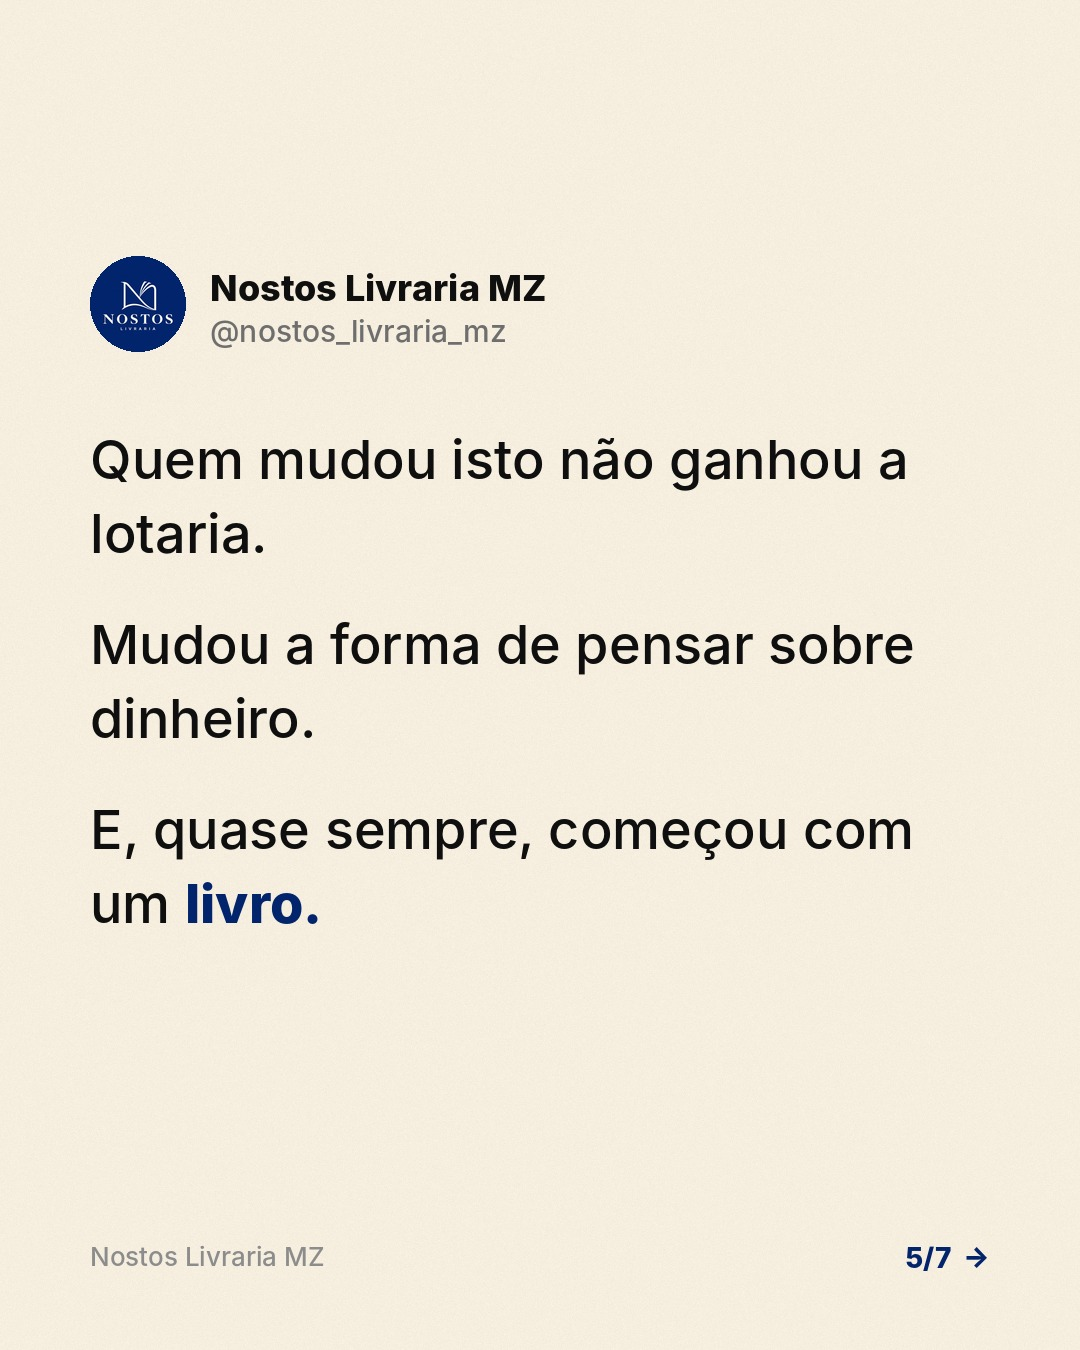
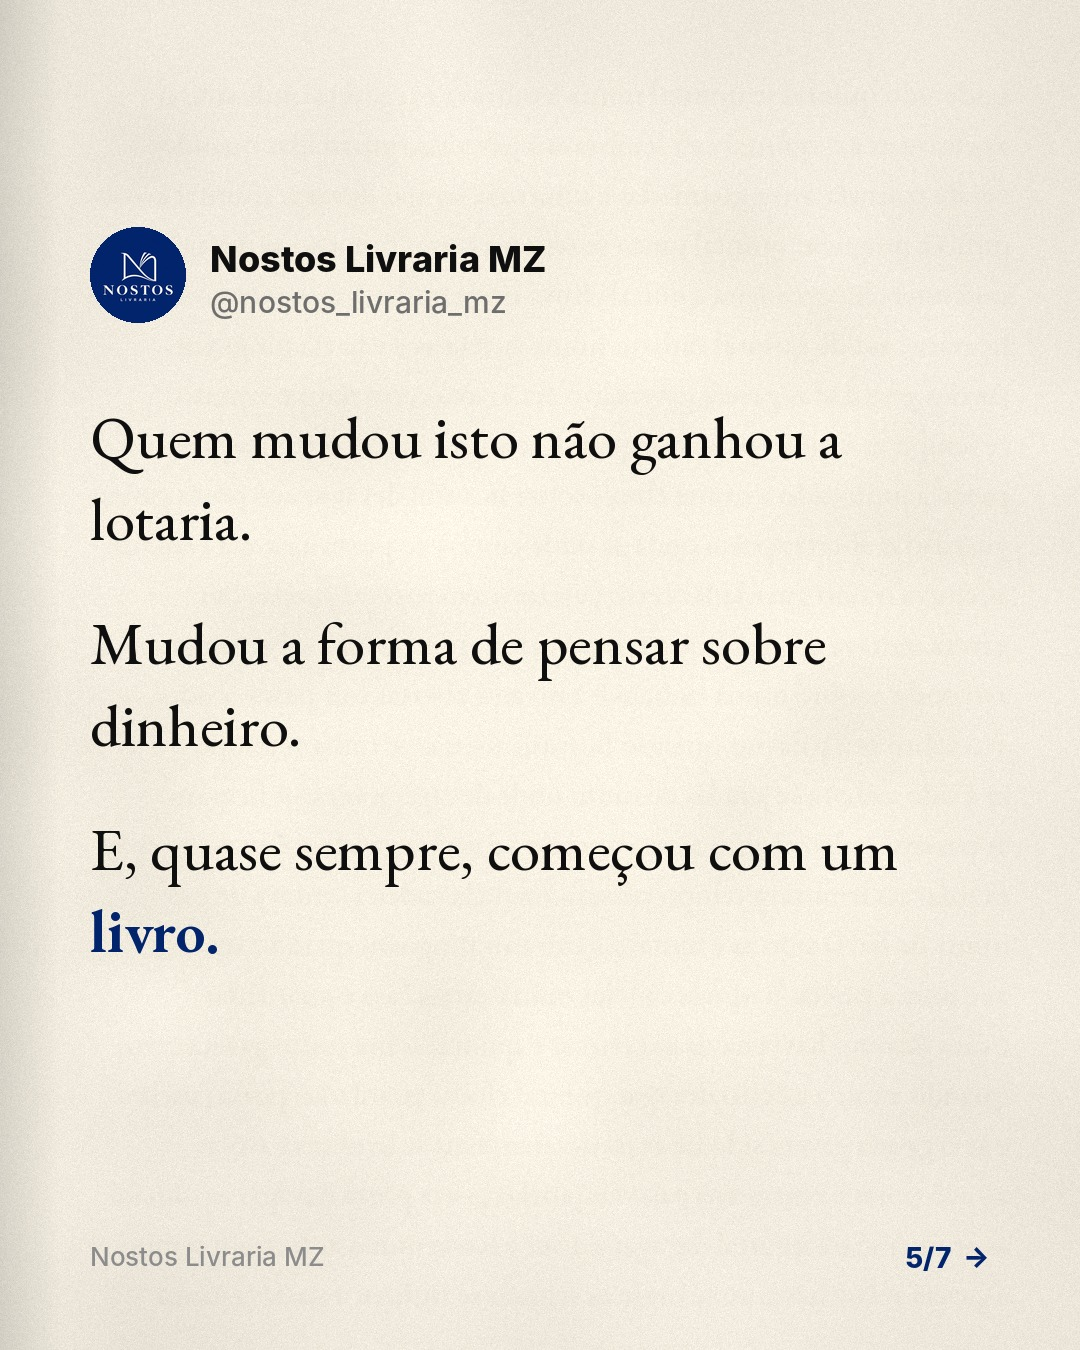
Estilo nota com letra de livro sobre papel claro; amostra com Dinheiro é Emocional
Claude-Session: https://claude.ai/code/session_01158HqZBK5N8s9ruNUS9Jgj

diff --git a/engine/render.py b/engine/render.py
@@ -29,6 +29,7 @@ RED = (2, 36, 108)  # azul Nostos (cor do logo); nome mantido por compatibilidad
 NAVY = RED
 LOGO_CREME = (251, 248, 240)
 BEIGE = (246, 239, 224)  # creme claro de papel de livro (#F6EFE0), fundo padrão do estilo nota
+PAPEL_CLARO = (250, 244, 231)  # papel de livro claro (textura igual às páginas, mais clara)
 GREY = (110, 104, 96)
 SIZES = {"feed": (1080, 1350), "story": (1080, 1920)}
 WA = "WhatsApp 87 943 1217"
@@ -72,7 +73,7 @@ FILLER = ("o tempo passava devagar naquela casa e ninguém se lembrava ao certo 
           "se sentava a ver a chuva cair sobre o quintal e as palavras ficavam no ar").split()
 
 
-def paper(W, H, seed):
+def paper(W, H, seed, base=None, through=0.055, vignette=0.16):
     r = np.random.default_rng(seed)
     small = r.normal(0, 1, (14, 11))
     m = np.array(Image.fromarray(((small - small.min()) / np.ptp(small) * 255).astype(np.uint8))
@@ -80,10 +81,10 @@ def paper(W, H, seed):
     fine = r.normal(0, 1, (H, W))
     img = np.zeros((H, W, 3))
     for c in range(3):
-        img[..., c] = CREAM[c] + m * 10 + fine * 4.2
+        img[..., c] = (base or CREAM)[c] + m * 10 + fine * 4.2
     yy, xx = np.mgrid[0:H, 0:W]
     dd = np.sqrt(((xx - W / 2) / (W * 0.62)) ** 2 + ((yy - H / 2) / (H * 0.62)) ** 2)
-    img *= (1 - 0.16 * np.clip(dd, 0, 1.4) ** 2)[..., None]
+    img *= (1 - vignette * np.clip(dd, 0, 1.4) ** 2)[..., None]
     img[:, :60] *= np.linspace(0.9, 1, 60)[None, :, None]
     # texto do verso a transparecer
     rr = random.Random(seed)
@@ -103,7 +104,7 @@ def paper(W, H, seed):
         d.text((70, y), " ".join(line), font=f, fill=255)
         y += 50
     layer = layer.transpose(Image.FLIP_LEFT_RIGHT).filter(ImageFilter.GaussianBlur(1.6))
-    a = np.array(layer, float) / 255 * 0.055
+    a = np.array(layer, float) / 255 * through
     img = img * (1 - a[..., None]) + np.array([90, 80, 66]) * a[..., None]
     return Image.fromarray(np.clip(img, 0, 255).astype(np.uint8))
 
@@ -379,10 +380,14 @@ def nota_draw(W, H, p, n, total):
     d.text((tx, y0 + 56), HANDLE, font=sans(30), fill=(110, 110, 110))
     y = y0 + 170
     if p.get("kicker"):
-        d.text((M, y), p["kicker"], font=sans(30, True), fill=RED)
+        d.text((M, y), p["kicker"], font=serif(38, 600, it=True), fill=RED)
         y += 60
     size = p.get("size", 54)
-    f, fb = sans(size), sans(size, True)
+    if p.get("font", "serif") == "serif":
+        size = int(size * 1.12)
+        f, fb = serif(size, 450), serif(size, 650)
+    else:
+        f, fb = sans(size), sans(size, True)
     hl = set(w.lower().strip(".,!?:;") for w in p.get("highlight", []))
     for para in p["text"].split("\n"):
         if not para.strip():
@@ -447,9 +452,7 @@ def nota_draw(W, H, p, n, total):
             y += box_h
     # centrar o bloco (cabeçalho + texto) na vertical
     content_h = int(y)
-    rng = np.random.default_rng(7)
-    grain = np.array(bg, float)[None, None, :] + rng.normal(0, 1.6, (H, W, 1))
-    img = Image.fromarray(np.clip(grain, 0, 255).astype(np.uint8))
+    img = paper(W, H, 7 + n, base=PAPEL_CLARO, through=0.025, vignette=0.05)
     area = H - (260 if story else 150)
     top = max(90, int((area - content_h) / 2))
     crop = canvas.crop((0, 0, W, content_h + 10))

diff --git a/CLAUDE.md b/CLAUDE.md
@@ -52,7 +52,8 @@ Ler primeiro `data/brand.md`, `data/catalogo.md`, `data/insights.md` e as últim
   comentar, WhatsApp).
 - Estilos, alternar:
   - `nota` (fundo creme #F6EFE0 (creme claro de papel de livro) – nunca branco puro –, a Nostos a escrever, tipo publicação)
-    – **o principal (~50%)**. Texto limpo e elegante, sem sombras.
+    – **o principal (~50%)**. Letra de livro (Garamond) sobre papel de livro claro, igual às páginas mas mais
+    claro. Texto limpo e elegante, sem sombras.
     Usar `highlight` para 1–3 palavras-chave em azul Nostos e `book` para mostrar um livro do catálogo.
   - `design` (creme, frases fortes) – ~25%.
   - `page` (página de livro) – ~25%, só com hook forte e conhecido.
